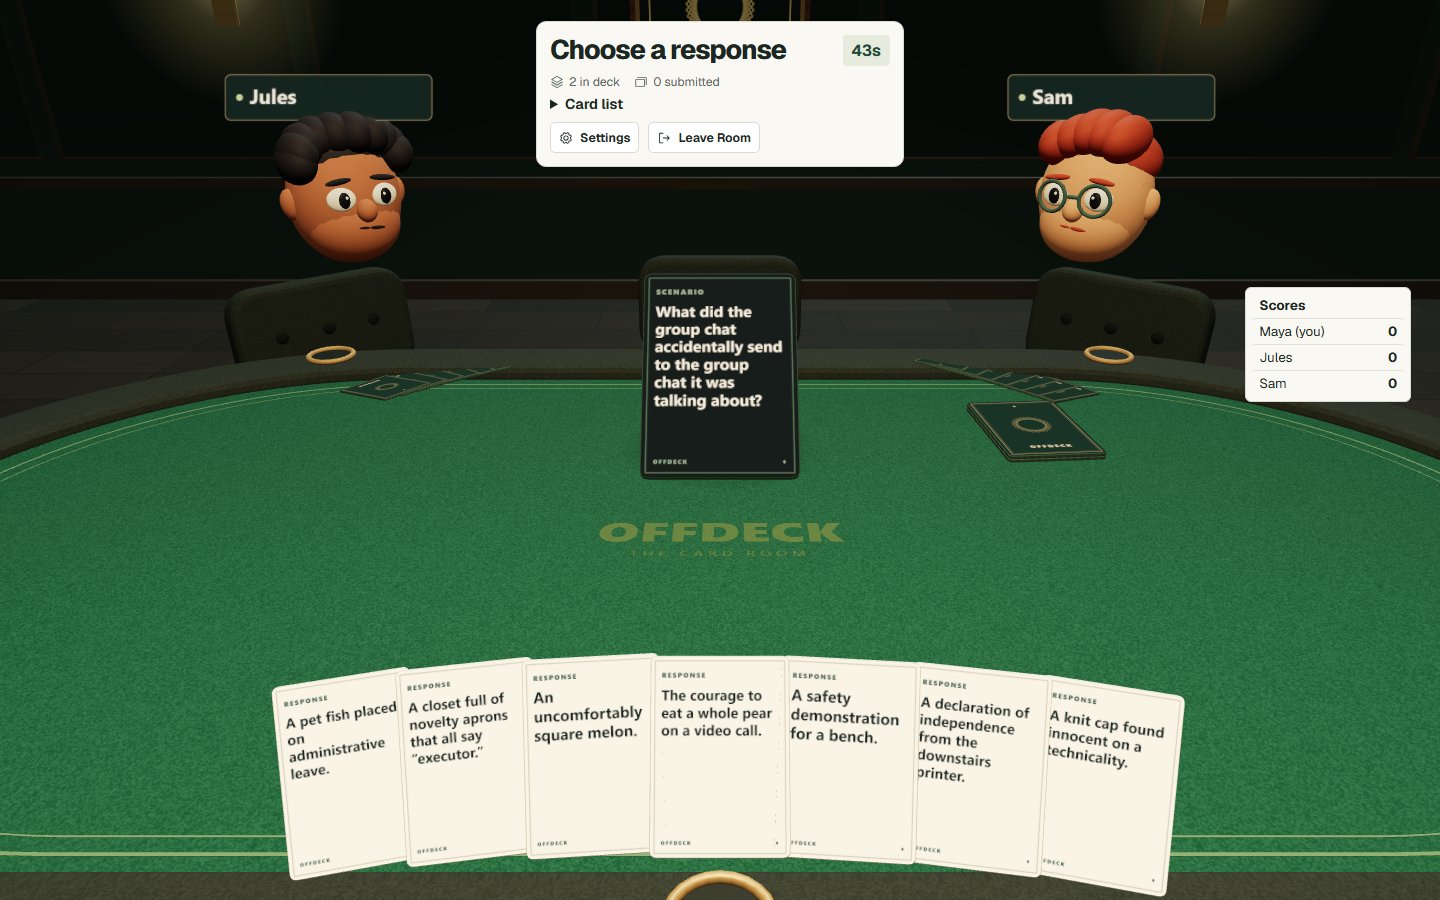
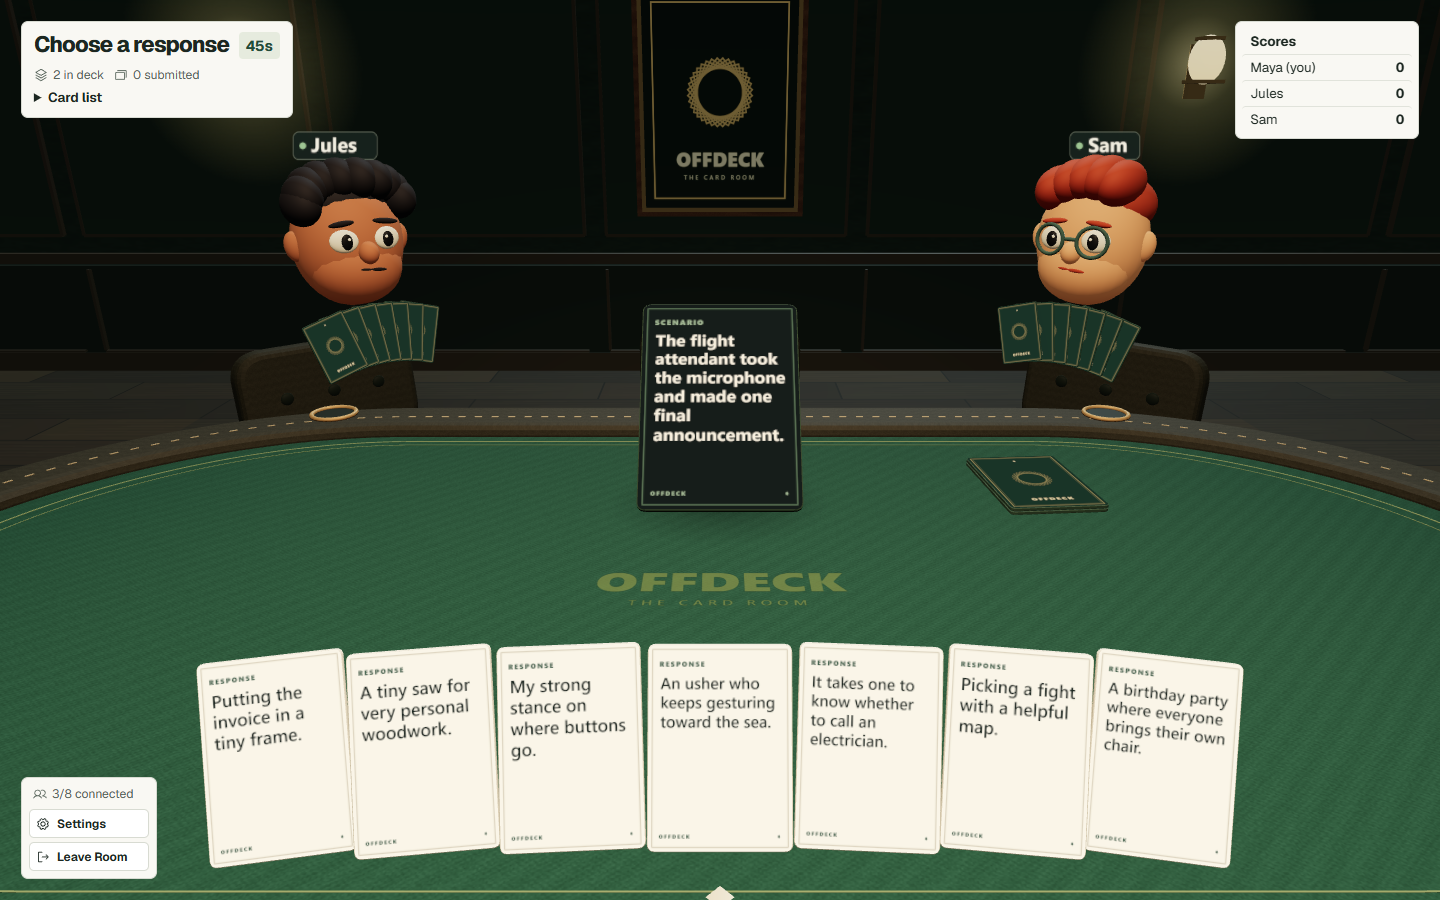
Release OFFDECK v0.2.0 with updated controls and screenshots

diff --git a/test/browser/table-match.spec.js b/test/browser/table-match.spec.js
@@ -1,6 +1,6 @@
 import { test, expect } from '@playwright/test'
 import { openPlayer } from './players.js'
-import { handTarget,responseTarget } from './targets.js'
+import { handTarget,responseTarget,scenarioTarget } from './targets.js'
 
 const home = 'http://127.0.0.1:3097'
 const capture = process.env.OFFDECK_CAPTURE === '1'
@@ -65,7 +65,16 @@ test('three independent browser clients finish a production match using only phy
     }))
     expect(hands.map(hand => hand.length)).toEqual([7,7,7])
     expect(new Set(hands.flat()).size).toBe(21)
-    if (round === 0) await snapshot('gameplay')
+    if (capture && round === 0) {
+      await snapshot('gameplay')
+      const {x,y} = scenarioTarget(sizes[0])
+      await a.mouse.click(x,y)
+      const close = a.getByRole('button',{name:'Close inspection Esc'})
+      await expect(close).toBeVisible()
+      await snapshot('card-inspection')
+      await a.keyboard.press('Escape')
+      await expect(close).toBeHidden()
+    }
     // Select the middle physical card on each camera. The accessible list stays closed.
     for (const [index,page] of pages.entries()) {
       const { x,y } = handTarget(sizes[index],index)

diff --git a/client/scene/cards.js b/client/scene/cards.js
@@ -162,7 +162,7 @@ export class Cards {
       if (current) this.finishInspection()
       const group = source.group.clone()
       const from = this.inspectionPose(source)
-      const target = pose(new T.Vector3(0,.02,-1.43),UP,.89)
+      const target = pose(new T.Vector3(0,.014,-.98),UP,.61)
       group.position.copy(from.position)
       group.quaternion.copy(from.rotation)
       group.scale.setScalar(from.scale)

diff --git a/README.md b/README.md
@@ -3,8 +3,9 @@
 OFFDECK is a first-person 3D party card game for **3–8 players** in a desktop browser. Invite friends to a private poker table, match a response card to the scenario, and vote for the funniest combination.
 
 - Create a private room and share its invitation link. Each player joins with a nickname.
-- Sit at an eight-seat 3D poker table with floating-head avatars and a physical seven-card hand.
-- Submit and vote by clicking cards. Responses are shuffled and anonymous until voting ends.
+- Sit at an eight-seat 3D poker table with private floating hands, avatar reactions and a physical seven-card hand.
+- Click the scenario card for a close-up. Submit and vote by clicking physical cards. A private marker confirms your vote.
+- The edge-aligned HUD leaves the table clear. Voting rows adapt to the number of submitted cards.
 - Earn one point for each vote received. Scenarios progress automatically until the deck is exhausted.
 - Refresh or reconnect to the same seat. The room migrates the host when needed.
 - Play with 100 original scenarios and 400 original responses. Adjust volume, camera sensitivity, graphics quality and motion locally.
@@ -17,7 +18,7 @@ Captured from the production build with three connected browser clients using a 
 ![First-person gameplay with a seven-card hand](docs/screenshots/gameplay.png)
 ![Anonymous responses in the voting phase](docs/screenshots/voting.png)
 
-[Multiplayer lobby](docs/screenshots/lobby.png) · [Round results](docs/screenshots/round-results.png) · [Final leaderboard](docs/screenshots/final-results.png)
+[Multiplayer lobby](docs/screenshots/lobby.png) · [Card inspection](docs/screenshots/card-inspection.png) · [Round results](docs/screenshots/round-results.png) · [Final leaderboard](docs/screenshots/final-results.png)
 
 ## Quick start
 
@@ -38,12 +39,12 @@ For friends on your LAN, set `HOST=0.0.0.0` in a local `.env` and have everyone 
 
 1. Choose a nickname. The browser remembers it for 365 days. Change it in **Settings**.
 2. Create a room or open an invitation. The host can start when at least three players are connected.
-3. Read the scenario at the center of the table. Hover over any card in your seven-card hand to inspect it, then click the card to lock it in. The default response timer is 45 seconds.
-4. After the reveal, click another player’s response to vote. Each player who submitted a response can cast one vote. The default voting timer is 30 seconds.
+3. Click the scenario for a closer look. Press **Esc**, click the scene again, or use **Close inspection** to return to the table. Hover over a response to read it, then click to submit. The default response timer is 45 seconds.
+4. After the reveal, click another player’s response to vote. Each player who submitted a response can cast one vote. **Vote cast** appears on the chosen card in your view. The default voting timer is 30 seconds.
 5. Read the authors and vote totals in the results. Each vote received is worth one point. The highest-voted response wins the round, with ties shared.
 6. Play continues automatically. After the last scenario, the final leaderboard highlights the highest-scoring player or tied players. The host can play again in the same room.
 
-Move the mouse to look around the table. Open **Card list** in the match overlay for readable text and keyboard controls. The browser enables sound after the first interaction. A newcomer joining an active match spectates and can play in the next one.
+Move the mouse to look around from your seat. Open **Card list** in the upper-left HUD for keyboard submission, voting and scenario inspection. Reduced motion holds the camera steady and settles cards directly into place. Graphics quality adjusts resolution and shadows. A newcomer joining an active match spectates and can play in the next one.
 
 ## Project structure
 
@@ -67,7 +68,7 @@ npx playwright install chromium
 npm run test:browser
 ```
 
-The Node suite exercises the full 100-scenario deck at eight seats. The browser suite completes a three-scenario match through physical cards in three independent contexts and checks the lobby, scoring, rematches, reconnects, settings, audio and the eight-response layout.
+The Node suite exercises the full 100-scenario deck at eight seats. Playwright completes a three-scenario match through physical cards and runs additional rounds with five and eight independent browser contexts. It also covers all three desktop viewports, reconnects, host migration, settings, audio and both rematch paths. See the [v0.2 verification record](docs/V0.2.md).
 
 To run the browser suite against the production bundle, run `npm run build` and then use the command for your shell.
 
@@ -79,6 +80,8 @@ OFFDECK_BROWSER_PROD=1 npm run test:browser
 $env:OFFDECK_BROWSER_PROD = '1'
 npm run test:browser
 ```
+
+On Windows with installed Chrome, set `OFFDECK_CHROME_D3D11=1` to run the browser suite with hardware acceleration. After building, run `node test/measure-scene.js --chrome` for the reproducible 1440×900 sample.
 
 ## Deployment
 

diff --git a/docs/V0.2.md b/docs/V0.2.md
@@ -26,3 +26,4 @@ A milestone closes after the feature runs in the production build, relevant test
 - **7. Outcomes** — Inspected the voter-only physical confirmation, score increments, result banner and ranked final panel. Three production browser scenarios covered immediate confirmation, duplicate and own-card rules, a three-way tie at rank 1, a single winner, synchronized scores and replay. The build and 17 Node tests passed.
 - **8. Navigation** — Inspected the refreshed menu and lobby with seated guests. Five production browser scenarios verified nested-dialog keyboard focus, clipboard accuracy, pasted invites, ready status, host migration, active leave confirmation, expired rooms and stored settings. The build and 17 Node tests passed.
 - **9. Regression** — Passed 17 Node tests and 17 production Chromium tests. Three browsers completed the test deck and replayed. Five and eight independent browsers each dealt, submitted, voted, agreed on tied results and advanced. Disconnection during selection, reconnect during voting, host migration and return to the lobby passed. Inspected all three desktop sizes and both end-seat layouts. The 1440×900 Medium sample measured 60.0 FPS, 16.80 ms p95, 123 calls/frame and about 25.87 MiB of tracked WebGL 2D texture storage. Eight seats measured 60.0 FPS, 16.80 ms p95 and 149 calls/frame. Low released the shadow map and tracked about 21.87 MiB. The complete browser match verified old card textures were released.
+- **10. Release** — Clean dependency install, 17 Node tests, production build and all 17 Chromium scenarios passed at package version 0.2.0. The default production launch served direct invites. The final inspection adjustment passed both the inspection test and a fresh complete three-client match. Inspected and versioned seven 1440×900 runtime screenshots. Updated the README, controls and changelog.

diff --git a/CHANGELOG.md b/CHANGELOG.md
@@ -1,0 +1,10 @@
+# Changelog
+
+## 0.2.0
+
+- Reframed all eight seats with constrained camera movement and a reversible 3D scenario close-up.
+- Refined card text, the seven-card fan and voting rows for up to eight submissions across 720p, 900p and 1080p desktop viewports.
+- Added private floating hands, seat-status cues and restrained avatar reactions. Updated felt, rail stitching, reflections and clubhouse lighting.
+- Moved match controls into an edge-aligned HUD. Added private vote confirmation, animated point gains and a ranked final leaderboard.
+- Refined deal and reveal timing, restored reconnecting seats directly to the current table, and improved invitation copying and keyboard navigation.
+- Verified the production build in three-, five- and eight-client browser sessions. See the [verification record](docs/V0.2.md) and [updated screenshots](docs/screenshots).
